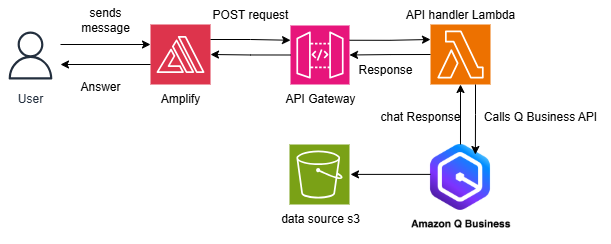
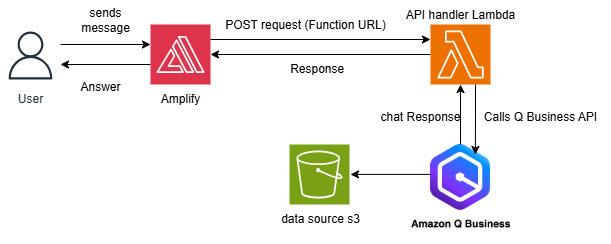
Updated architecture diagram and README file

Changed region(s): [[0.3421, 0.0287, 0.7152, 0.4303]]

diff --git a/README.md b/README.md
@@ -18,7 +18,7 @@ This application combines natural language processing with a knowledge base of C
 - **Document support** for PDF, DOCX, XLSX, and CSV files
 
 ## Architecture Overview
-
+![Architecture Diagram](docs/architecture.png)
 The application uses a modern serverless architecture:
 
 - **Frontend**: React application hosted on AWS Amplify
@@ -40,31 +40,72 @@ The application uses a modern serverless architecture:
 .
 ├── Backend/                        # AWS CDK infrastructure and backend logic
 │   ├── bin/                        # CDK app entry point
+│   │   └── catholic-charities-cdk.ts
 │   ├── data-sources/               # Data source files for indexing
-│   │   ├── urls1.txt              # URLs for web crawling
-│   │   ├── urls2.txt              # URLs for web crawling
-│   │   └── *.pdf, *.docx, etc.    # Document files for indexing
+│   │   ├── urls1.txt              # URLs for web crawling (Alaska, Alabama, etc.)
+│   │   ├── urls2.txt              # Additional URLs for web crawling (New Jersey, etc.)
+│   │   └── *.pdf, *.docx, *.xlsx, *.csv # Document files for indexing
 │   ├── lambda/                     # Lambda function code
 │   │   └── lambda_function.py     # Chat handler with Function URL support
 │   ├── lib/                       # CDK stack definitions
-│   │   └── catholic-charities-stack.ts
-│   ├── deploy.sh                  # Deployment automation script
+│   │   └── catholic-charities-stack.ts # Main CDK stack with Lambda Function URLs
+│   ├── node_modules/              # Node.js dependencies (auto-generated)
+│   ├── cdk.out/                   # CDK synthesis output (auto-generated)
 │   ├── buildspec.yml              # AWS CodeBuild configuration
-│   ├── package.json               # Backend dependencies
+│   ├── cdk.json                   # CDK configuration
+│   ├── deploy.sh                  # Deployment automation script
+│   ├── package.json               # Backend dependencies and scripts
+│   ├── package-lock.json          # Locked dependency versions
+│   ├── tsconfig.json              # TypeScript configuration
+│   ├── .gitignore                 # Git ignore patterns
 │   └── README.md                  # Backend-specific documentation
 ├── Frontend/                       # React-based web application
 │   ├── public/                    # Static assets and images
+│   │   ├── Assets/                # Application assets
+│   │   │   ├── catholic_bot1.svg  # Bot avatar icon
+│   │   │   └── UserAvatar.svg     # User avatar icon
+│   │   ├── favicon.ico            # Browser favicon
+│   │   ├── index.html             # Main HTML template
+│   │   ├── manifest.json          # PWA manifest
+│   │   └── robots.txt             # Search engine robots file
 │   ├── src/                       # React source code
 │   │   ├── Components/            # React components
+│   │   │   ├── AppHeader.jsx      # Application header component
+│   │   │   ├── BotReply.jsx       # Bot message display component
+│   │   │   ├── ChatBody.jsx       # Main chat interface with Function URL integration
+│   │   │   ├── ChatHeader.jsx     # Chat section header
+│   │   │   ├── ChatInput.jsx      # User input component
+│   │   │   ├── CatholicCharitiesLogo.jsx # Custom SVG logo component
+│   │   │   ├── FAQExamples.jsx    # FAQ prompt buttons
+│   │   │   ├── LeftNav.jsx        # Sidebar navigation
+│   │   │   └── UserReply.jsx      # User message display component
 │   │   ├── utilities/             # Shared utilities and configuration
-│   │   └── ...                    # Other React files
-│   ├── package.json               # Frontend dependencies
+│   │   │   ├── constants.js       # API endpoints and theme constants
+│   │   │   ├── createMessageBlock.js # Message object creation utility
+│   │   │   └── theme.js           # Material-UI theme configuration
+│   │   ├── App.js                 # Main React application component
+│   │   ├── App.css                # Application styles
+│   │   ├── index.js               # React application entry point
+│   │   └── index.css              # Global styles
+│   ├── build/                     # Production build output (auto-generated)
+│   ├── node_modules/              # Node.js dependencies (auto-generated)
+│   ├── package.json               # Frontend dependencies and scripts
+│   ├── package-lock.json          # Locked dependency versions
+│   ├── .env.production            # Production environment variables (auto-generated)
+│   ├── .gitignore                 # Git ignore patterns
+│   └── README.md                  # Frontend-specific documentation
+├── docs/                          # Documentation and assets
+│   └── architecture.png           # Architecture diagram
+├── .git/                          # Git repository data
+├── .gitignore                     # Global git ignore patterns
+├── LICENSE                        # Project license
 └── README.md                      # Project overview and deployment guide
 ```
 
 For detailed information about each component:
 
 - **Backend**: See [Backend/README.md](Backend/README.md) for architecture details, Lambda functions, and data source management
+- **Frontend**: See [Frontend/README.md](Frontend/README.md) for React components, styling, and local development
 
 ## Deployment Instructions
 
@@ -110,7 +151,7 @@ For detailed information about each component:
 4. **Provide Configuration**:
 
    - **GitHub URL**: Your forked repository URL
-   - **Project Name**: Custom name (default: `catholic-charities-hybrid`)
+   - **Project Name**: Custom name (default: `catholic-charities`)
    - **Other Parameters**: Press Enter for defaults
 
 5. **Monitor Deployment**:
@@ -156,7 +197,7 @@ For detailed information about each component:
 
 **Replace the placeholder values in the commands below with your actual values:**
 
-- `<PROJECT_NAME>`: Your project name (e.g., `catholic-charities-hybrid`)
+- `<PROJECT_NAME>`: Your project name (e.g., `catholic-charities`)
 - `<AWS_ACCOUNT_ID>`: Your AWS account ID (get with `aws sts get-caller-identity --query Account --output text`)
 - `<AWS_REGION>`: Your AWS region (e.g., `us-west-2`)
 - `<AMPLIFY_APP_NAME>`: Your Amplify app name (e.g., `<PROJECT_NAME>-frontend`)
@@ -300,13 +341,13 @@ For easy reference, here are the parameters you need to replace:
 
 | Placeholder               | Description                       | Example                                                   |
 | ------------------------- | --------------------------------- | --------------------------------------------------------- |
-| `<PROJECT_NAME>`          | Your project name                 | `catholic-charities-hybrid`                               |
+| `<PROJECT_NAME>`          | Your project name                 | `catholic-charities`                               |
 | `<AWS_ACCOUNT_ID>`        | Your AWS account ID               | `123456789012`                                            |
 | `<AWS_REGION>`            | Your AWS region                   | `us-west-2`                                               |
-| `<AMPLIFY_APP_NAME>`      | Your Amplify app name             | `catholic-charities-hybrid-frontend`                      |
+| `<AMPLIFY_APP_NAME>`      | Your Amplify app name             | `catholic-charities-frontend`                      |
 | `<LAMBDA_FUNCTION_URL>`   | Lambda Function URL from step 4   | `https://abc123.lambda-url.us-west-2.on.aws/`             |
 | `<AMPLIFY_APP_ID>`        | Amplify App ID from step 6        | `d1a2b3c4d5e6f7`                                          |
-| `<FRONTEND_BUILD_BUCKET>` | Frontend build bucket from step 4 | `catholic-charities-hybrid-builds-123456789012-us-west-2` |
+| `<FRONTEND_BUILD_BUCKET>` | Frontend build bucket from step 4 | `catholic-charities-builds-123456789012-us-west-2` |
 
 ## Usage
 
